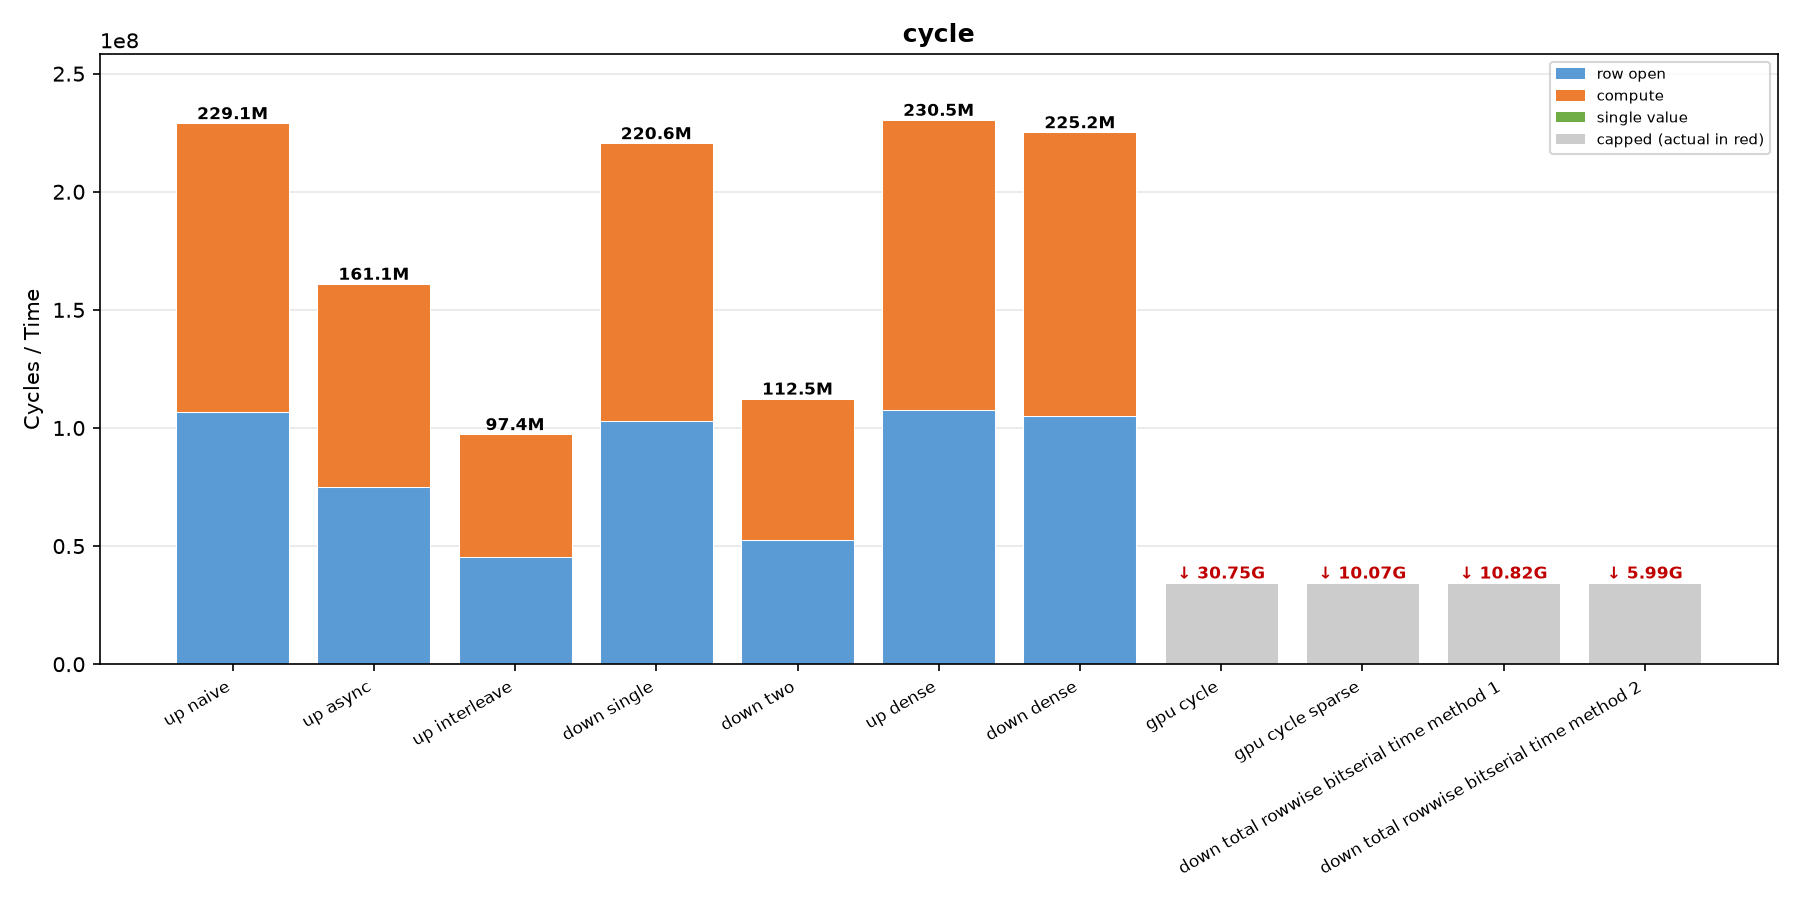
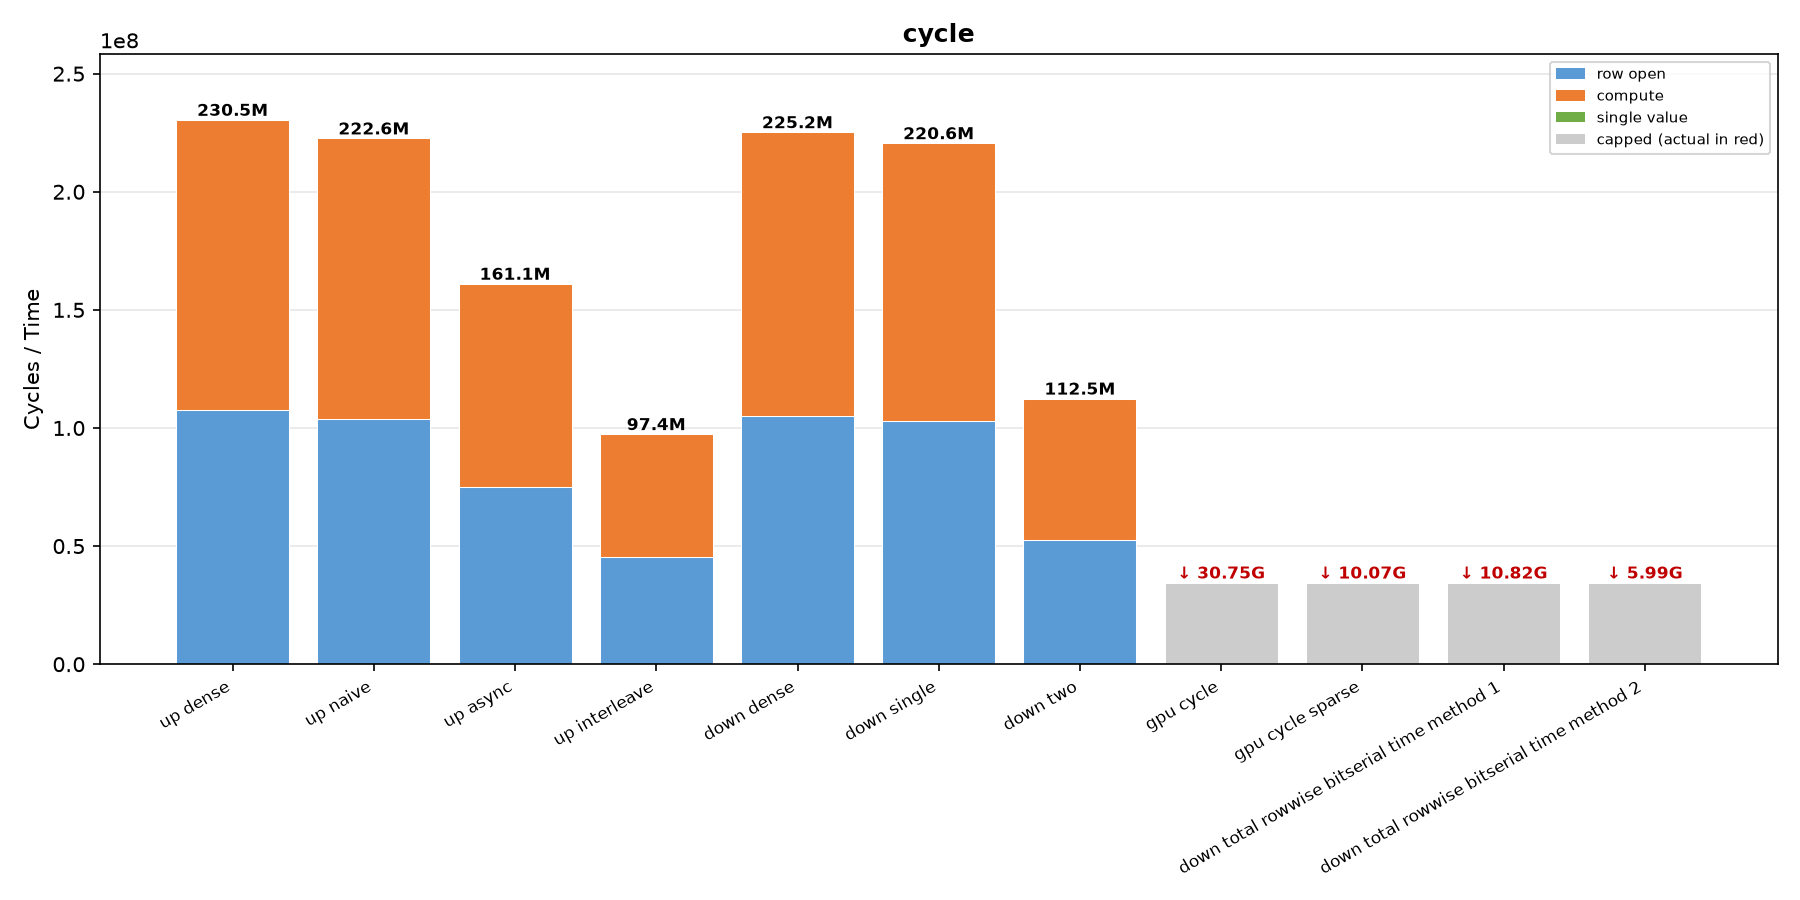
update result

diff --git a/scripts/pim_simulation.py b/scripts/pim_simulation.py
@@ -66,7 +66,6 @@ class PimContext:
         2. row_wise- bitserial: 11k 个 4k+4k, 4k 放在一起(不行, row 是破坏性的都,无法写回)
         """
 
-        # 1. naive layout
         # 4k in a bank, 11k across the banks
         naive_single_neuron_size = self.activation_size * self.data_width
 
@@ -78,21 +77,30 @@ class PimContext:
         self.up_dense += (
             (self.neuron_size + self.banks - 1) // self.banks * rows_per_bank
         )
+        # 1. naive layout:所有的bank,只要有一个row 被激活,那么所有的bank 都需要激活这个row,所以只要统计所有的row,然后取max
 
-        valid_rows = set()
+        valid_rows = [set() for _ in range(32)]
         for i in indices:
-            valid_rows.add(i // self.banks)
+            channel_id = (i // 32) % 32
+            bank_id = i % 32
+            row_id = i // 32 // 32
+            valid_rows[channel_id].add(row_id)
             pass
-        self.up_total_naive_time += len(valid_rows) * rows_per_bank
+        each_channel_rows = [len(s) for s in valid_rows]
+        max_rows = max(each_channel_rows)
+        self.up_total_naive_time += max_rows * rows_per_bank
 
-        # 2. async layout
+        # 2. async layout: 每个bank可以激活自己的row
         # each bank can activate different rows, so count the number of rows for each bank, and take the max
-        rows_per_each_bank = [0 for _i in range(self.banks)]
+        rows_per_each_bank = [[0 for _i in range(32)] for _ in range(32)]
         for i in indices:
-            bank_id = i % self.banks
-            rows_per_each_bank[bank_id] += 1
+            channel_id = (i // 32) % 32
+            bank_id = i % 32
+            rows_per_each_bank[channel_id][bank_id] += 1
+        each_channel_max_rows = [max(s) for s in rows_per_each_bank]
+        max_rows = max(each_channel_max_rows)
 
-        self.up_total_asnc_time += max(rows_per_each_bank) * rows_per_bank
+        self.up_total_asnc_time += max_rows * rows_per_bank
 
         # 3. iterleave layout
         # there are two batch in parallel, so we can merge the same index do the same time, for diffrent index, if they belong to the same bank,

diff --git a/scripts/draw_data.py b/scripts/draw_data.py
@@ -27,14 +27,14 @@ SINGLES = [
 
 # hardcoded: stacked pair prefixes → display name
 PAIRS = {
+    "up_dense": "up dense",
     "up_total_naive_time": "up naive",
     "up_total_asnc_time": "up async",
     "up_total_iterleave_time": "up interleave",
+    "down_dense": "down dense",
     "down_total_interproduct_time_single": "down single",
     "down_total_interproduct_time_two": "down two",
-    "up_dense": "up dense",
-    "down_dense": "down dense",
-    
+
 }
 
 # keys that are visually capped (short bar + number label)